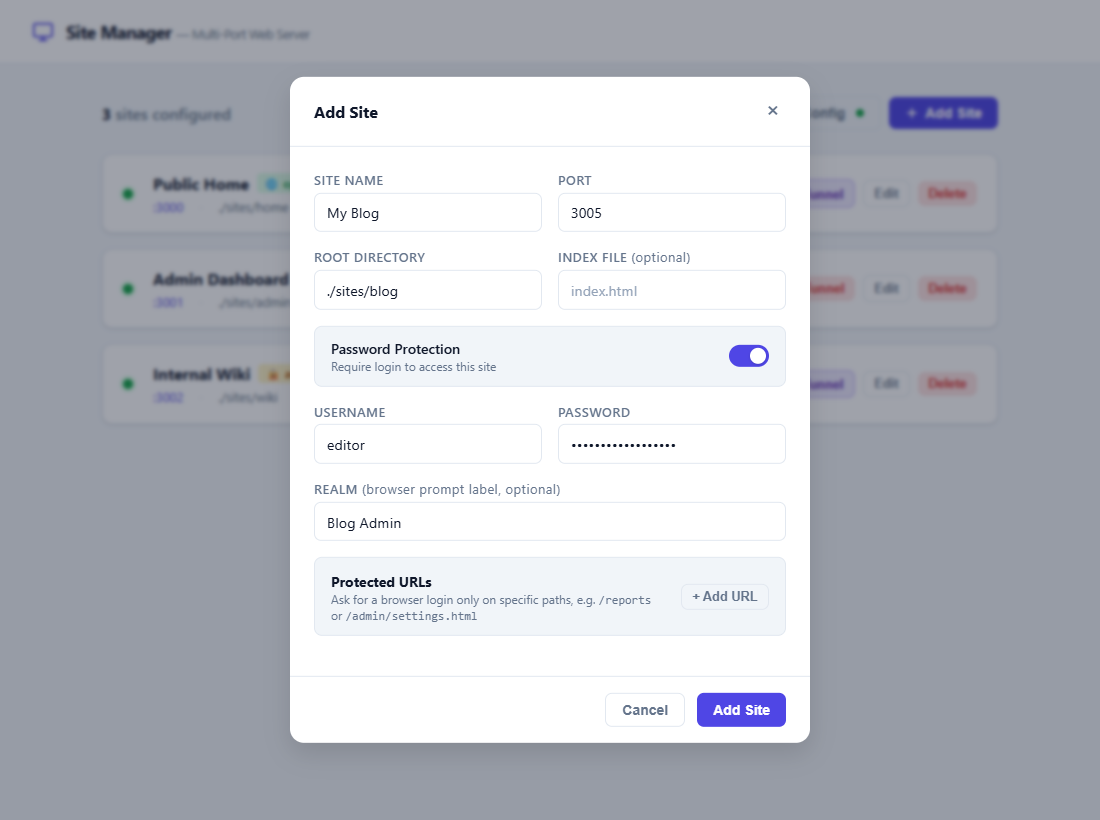
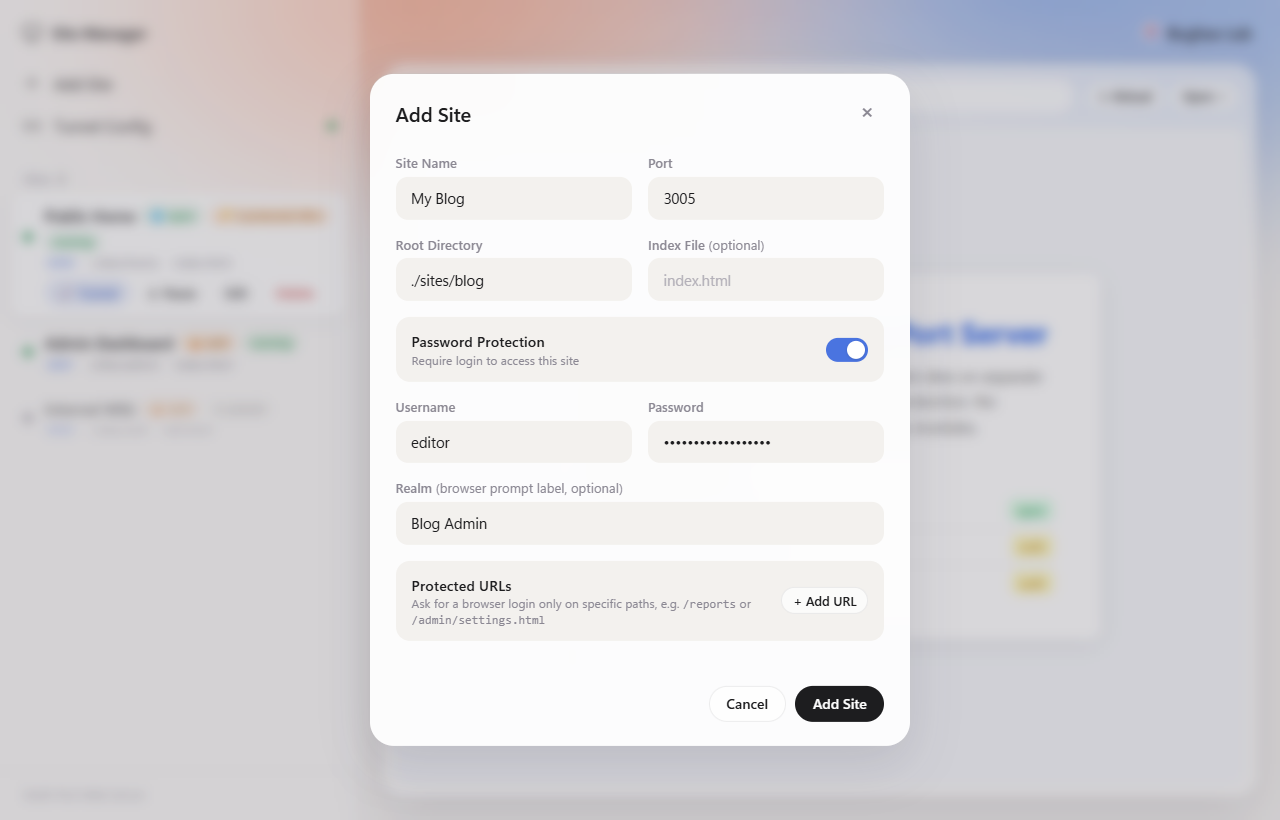
Document pausing and the new layout; refresh screenshots

diff --git a/README.md b/README.md
@@ -14,6 +14,7 @@ A zero-dependency Node.js web server that hosts multiple static sites on separat
 4. [Quick Start](#quick-start)
 5. [Configuration](#configuration)
 6. [Site Manager UI](#site-manager-ui)
+   - [Pausing a site](#pausing-a-site)
 7. [Password Protection & Rate Limiting](#password-protection--rate-limiting)
    - [Protecting Specific URLs](#protecting-specific-urls)
 8. [Tunnel System](#tunnel-system)
@@ -36,7 +37,7 @@ A zero-dependency Node.js web server that hosts multiple static sites on separat
 | **Per-URL logins** | Require a browser login only on specific paths (e.g. `/reports`) |
 | **Rate limiting** | 5 failed attempts → 10-minute lockout per IP per site, survives restarts |
 | **Hashed passwords** | Stored as scrypt hashes; default or missing passwords are replaced with random ones on startup |
-| **Live Site Manager** | Add, edit, and delete sites from a browser UI without restarting |
+| **Live Site Manager** | Add, edit, pause, resume and delete sites from a browser UI without restarting, with a live preview of the selected site |
 | **Reverse proxy tunnels** | Expose any local site to the internet via a secure public URL |
 | **Tunnel Config UI** | Set your domain, certs, and token from the browser — no file editing |
 | **Zero dependencies** | Only Node.js built-ins (`http`, `https`, `fs`, `net`, `tls`, `crypto`) |
@@ -163,6 +164,7 @@ To set a password by hand, write it as `"pass"` (like the Admin Dashboard above)
 | `root` | Yes | Folder with the site's files. Must be **inside `sitesDir`** and must not overlap another site's folder, since that would let one site serve another's files without its login |
 | `index` | No | Entry file (default: `index.html`) |
 | `host` | No | Address to listen on. Default: all interfaces. Use `"127.0.0.1"` to keep a site private to this computer |
+| `paused` | No | `true` = the site isn't served at all (its port isn't opened). Usually set with the **Pause** button rather than by hand |
 | `auth.user` | If auth | Username for Basic Auth |
 | `auth.pass` | If auth | Password (hashed automatically on startup; at least 8 characters when set from the UI) |
 | `auth.realm` | No | Label shown in the browser's login dialog |
@@ -186,13 +188,22 @@ To set a password by hand, write it as `"pass"` (like the Admin Dashboard above)
 
 Open [http://127.0.0.1:4000](http://127.0.0.1:4000) in your browser.
 
-Each site is shown as a card:
+The screen has two parts:
 
+**Site list (left).** Each site is a card. Click a card (or Tab to it and press Enter) to focus on it.
 - **Green dot / `running`**: the site's server is listening on its port
 - **`open`** or **`auth`**: whether the whole site needs a login
-- **`N protected URLs`**: how many paths have their own login (the paths are listed under the name)
-- **Tunnel link**: the public URL, when a tunnel is active
+- **`N protected URLs`**: how many paths have their own login (hover to see them)
+- **Grey dot / `⏸ paused`**: the site is paused and not being served
+- **`tunnel on`**: a public tunnel is active
+- The selected site's buttons (**Tunnel**, **Pause**/**Resume**, **Edit**, **Delete**) appear under it; other sites show theirs when you hover over them
 - **Tunnel Config dot**: grey = tunnel not configured yet, green = ready
+
+**Live preview (right).** It shows the focused site as visitors see it, with its address, its public tunnel URL when one is active, **↻ Reload** and **Open ↗** (open in a new tab).
+- The manager remembers which site you were looking at
+- After you add or edit a site, the preview switches to it and reloads, so your changes show at once
+- For a password-protected site (**🔒 login**), your browser asks for that site's login inside the preview. If no prompt appears, click **Open ↗**, log in there, then **↻ Reload**
+- On a narrow screen the list sits on top and the preview below it
 
 ![Site Manager dashboard](docs/screenshots/01-dashboard.png)
 
@@ -213,6 +224,8 @@ Each site is shown as a card:
 |---|---|
 | **Add a site** | Click **+ Add Site**, fill in name, port, root directory, and optionally enable password protection |
 | **Edit a site** | Click **Edit** on any site card — the server on that port restarts with new settings |
+| **Pause a site** | Click **⏸ Pause**. See [Pausing a site](#pausing-a-site) |
+| **Resume a site** | Click **▶ Resume** on the card, or **Resume site** in the preview |
 | **Delete a site** | Click **Delete** — stops the server and removes it from config |
 | **Toggle auth** | Use the toggle switch in the Add/Edit form to enable or disable password protection |
 | **Protect a specific URL** | In the Add/Edit form, click **+ Add URL** under *Protected URLs* |
@@ -220,6 +233,21 @@ Each site is shown as a card:
 | **Create a tunnel** | Click **🔗 Tunnel** on any site card to expose it to the internet |
 | **Stop a tunnel** | Click **Stop Tunnel** on the active card |
 | **Configure tunnel** | Click **Tunnel Config** in the toolbar |
+
+### Pausing a site
+
+Pausing takes a site offline without deleting it — handy for maintenance, or to hide a site for a while.
+
+1. Select the site and click **⏸ Pause**
+2. The site stops listening on its port, so nothing is served: no pages, no error page. Visitors' browsers just can't connect. Any active tunnel for it is closed
+3. The card turns grey with a **⏸ paused** badge, and the preview shows **This site is paused**
+4. Click **▶ Resume** (or **Resume site** in the preview) to serve it again
+
+![A paused site in the Site Manager](docs/screenshots/05-paused-site.png)
+
+The paused state is saved to `config.json` (`"paused": true`). A paused site **stays paused after a restart**, and the startup table shows it as `[paused]`. Editing a paused site keeps it paused. While a site is paused, its port stays reserved for it in the manager.
+
+If another program grabs the port while the site is paused, **Resume** reports that the port is in use; edit the site to choose another port.
 
 ---
 
@@ -460,7 +488,8 @@ Press `Ctrl+C` to stop the tunnel.
 | Wrong tunnel token | Server rejects with `401 Unauthorized` |
 | Request body over `maxBodyBytes` | Returns `413 Payload Too Large` |
 | More than `maxConcurrent` requests at once | Extra requests get `503 Service Unavailable` |
-| Site's port changed or site deleted in the manager | Its tunnel is stopped automatically |
+| Site's port changed, paused or deleted in the manager | Its tunnel is stopped automatically |
+| Site is paused | A tunnel can't be opened for it until it's resumed |
 
 ---
 
@@ -516,7 +545,8 @@ Or use a simple `systemd` unit file — see your distro's documentation.
 
 **Everywhere**
 - All servers time out slow requests (10 s for headers, 30 s for the full request)
-- Security headers on every response: `X-Content-Type-Options`, `X-Frame-Options`, `Referrer-Policy`, plus a strict `Content-Security-Policy` on the Site Manager
+- Security headers on every response: `X-Content-Type-Options`, `Referrer-Policy`, plus a strict `Content-Security-Policy` on the Site Manager
+- Framing (clickjacking protection): sites can only be embedded by themselves and by the Site Manager's preview (`frame-ancestors`). The manager itself can't be embedded anywhere. The preview frame is sandboxed, so a previewed site can't navigate or script the manager
 - Sites use plain HTTP locally, so their logins can be sniffed on a shared network (e.g. café Wi-Fi). Set `"host": "127.0.0.1"` on sites that should stay private, and share them publicly through the tunnel, which is HTTPS end to end
 
 ### Site Manager API protection
